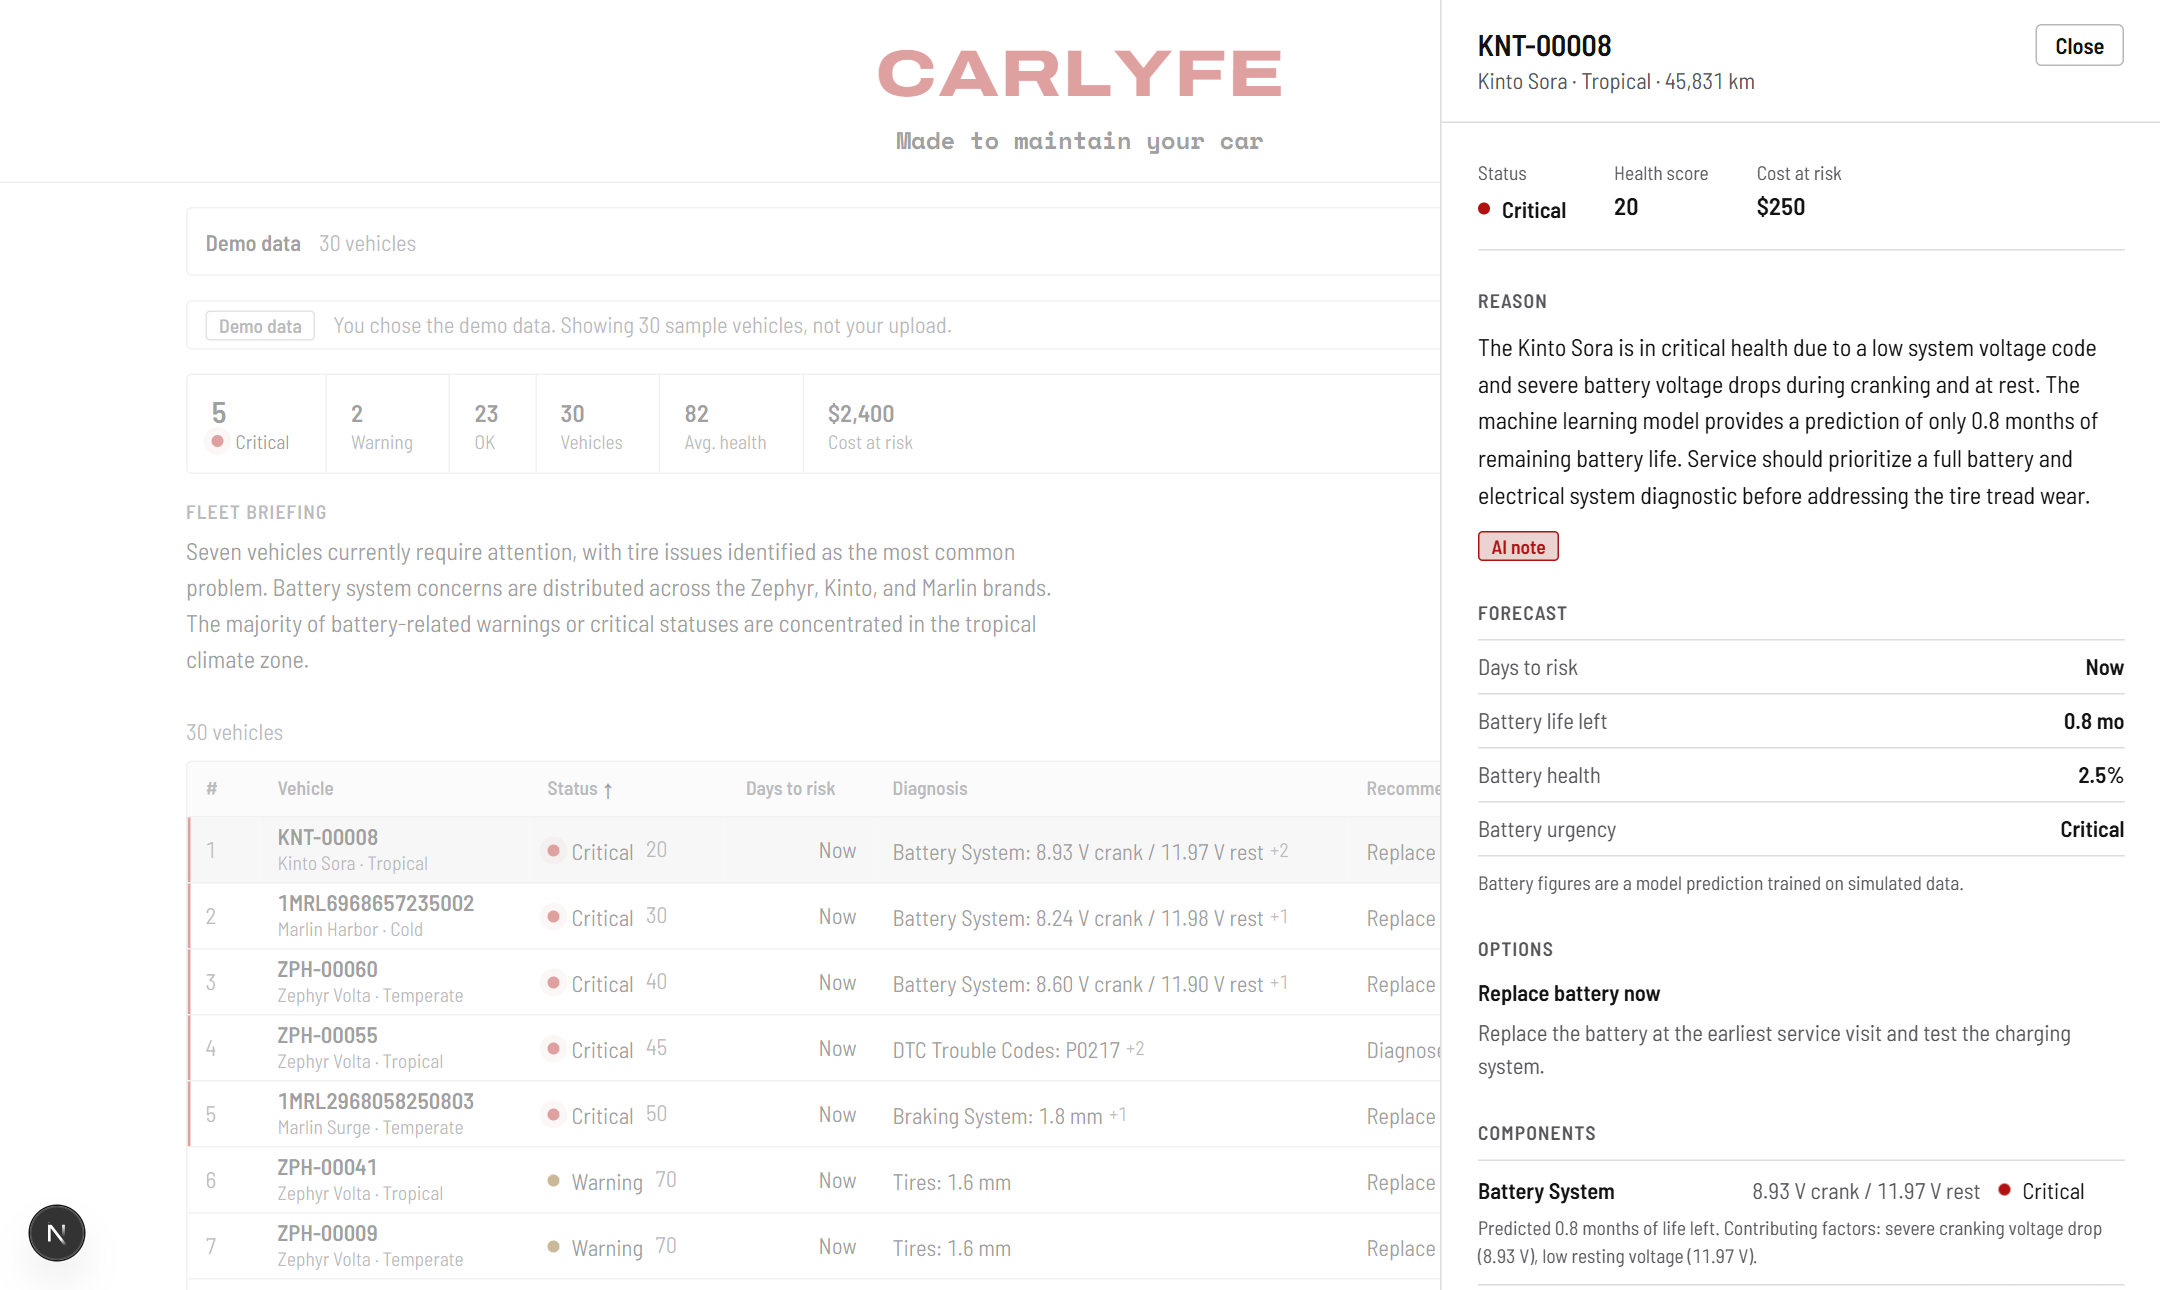
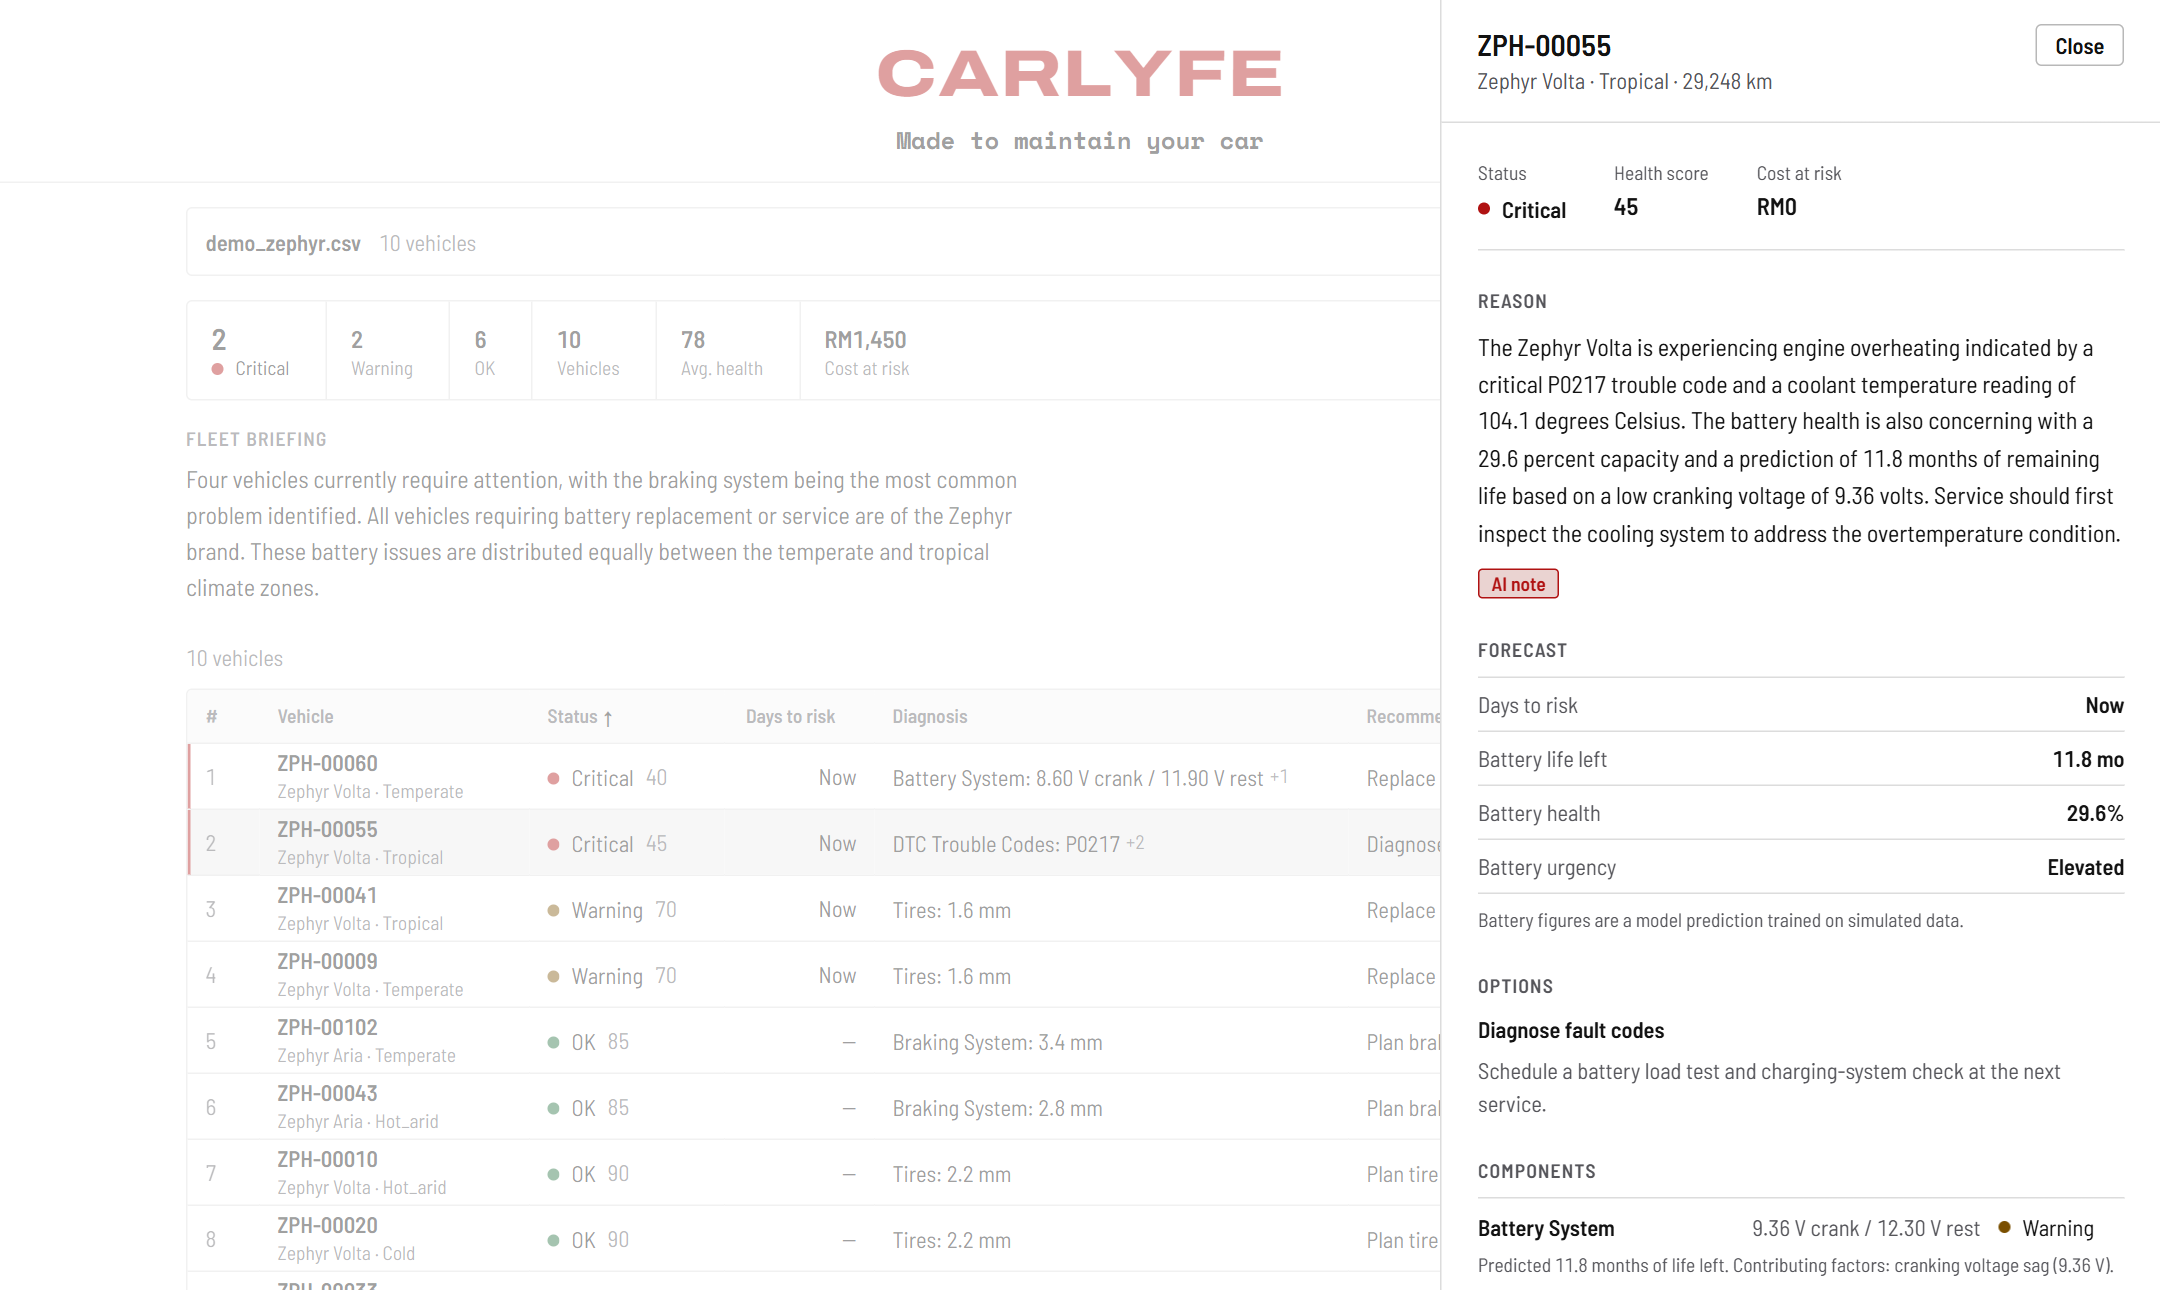
ReadMe Photos

diff --git a/README.md b/README.md
@@ -52,15 +52,17 @@ Fleet operators and car companies, not individual drivers. They manage many vehi
 
 ## Screenshots
 
+Both screenshots use a real upload: `demo_zephyr.csv` (10 Zephyr vehicles), analysed by the live API with AI explanations on.
+
 <p align="center">
   <img src="docs/screenshot-fleet.png" alt="Fleet table, ranked by health score" width="880">
 </p>
-<p align="center"><em>The fleet, ranked worst first. Critical vehicles carry a red rule on the left.</em></p>
+<p align="center"><em>The fleet after uploading <code>demo_zephyr.csv</code>: summary strip, AI fleet briefing and the table ranked worst first. Critical vehicles carry a red rule on the left.</em></p>
 
 <p align="center">
   <img src="docs/screenshot-detail.png" alt="Vehicle detail panel with the AI explanation" width="880">
 </p>
-<p align="center"><em>Detail panel: why the vehicle is flagged, the forecast, the recommended action and every component.</em></p>
+<p align="center"><em>Detail panel for a critical vehicle (ZPH-00055): the AI explanation of why it is flagged, the battery forecast, the recommended action and every component.</em></p>
 
 <br>
 
